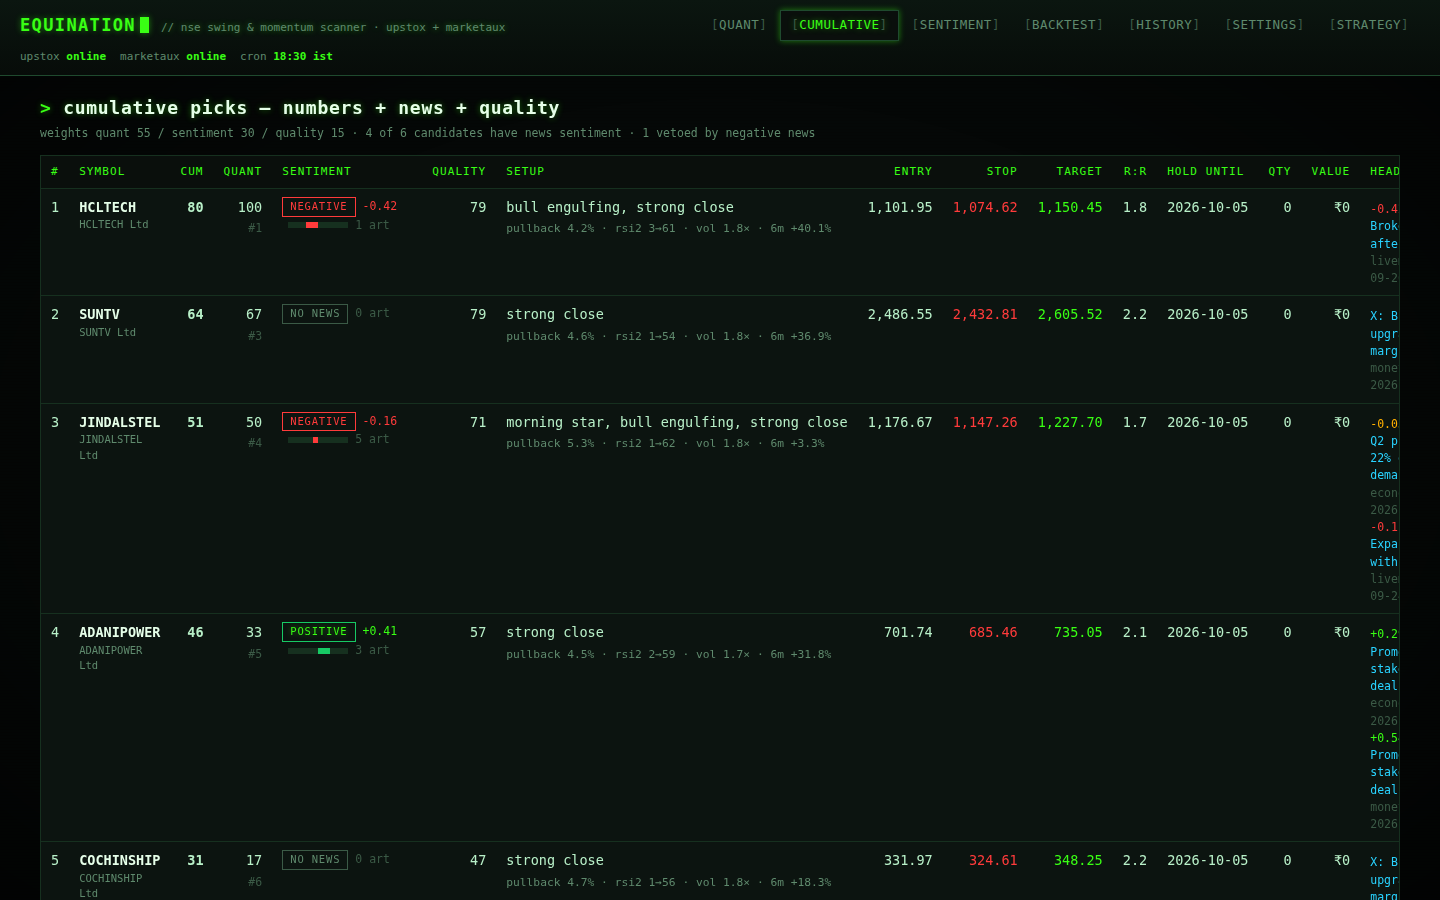
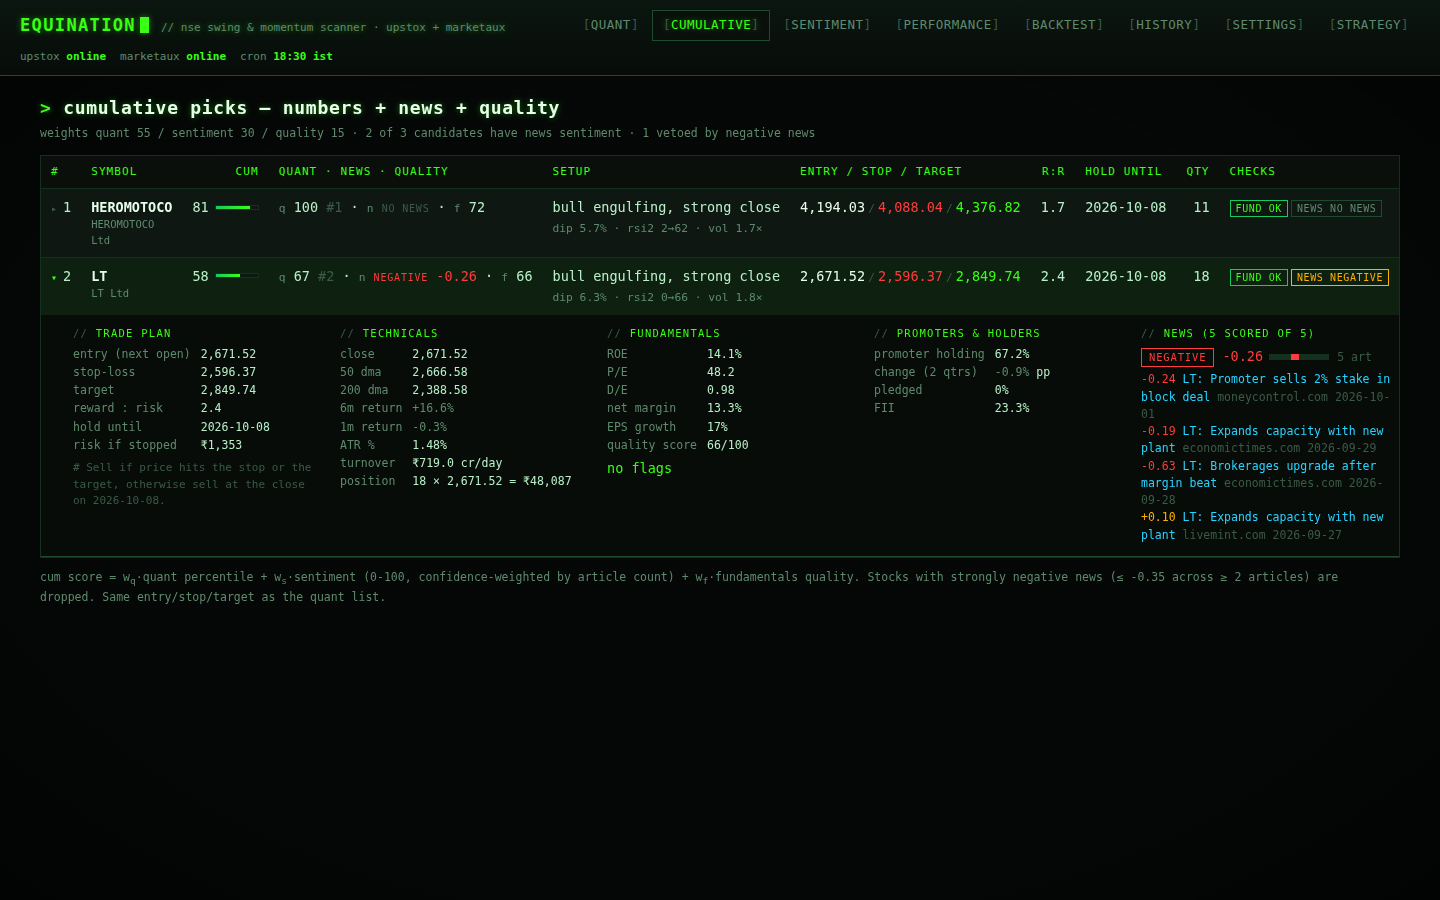
Polish UI: compact picks tables with expandable detail rows
Picks tables now show only the decision essentials (setup, score bar,
entry/stop/target, R:R, hold-until, qty, risk, check chips); clicking a
row expands a detail panel with the trade plan, technicals, fundamentals,
promoter holdings and headlines. Adds a summary strip (regime, picks,
mode, data date, live track record, next scan), zebra rows, softer CRT
effect and a mobile layout.

Claude-Session: https://claude.ai/code/session_01UB6m2yn1RT3XtXEe232fNs

diff --git a/static/app.js b/static/app.js
@@ -88,15 +88,68 @@
     if (mode === 'swing') return `<td class="num">${fmt(r.entry, 2)}</td><td class="num neg">${fmt(r.stop_loss, 2)}</td><td class="num pos">${fmt(r.target, 2)}</td><td class="num">${fmt(r.reward_risk)}</td><td>${r.hold_until || '-'}</td>`;
     return `<td class="num">${fmt(r.close, 2)}</td><td class="num neg">${fmt(r.stop_loss, 2)}</td><td class="num dim">50dma</td><td class="num dim">-</td><td class="dim">monthly</td>`;
   }
-  const PLAN_HEAD = '<th class="num">entry</th><th class="num">stop</th><th class="num">target</th><th class="num">r:r</th><th>hold until</th>';
-  const QUANT_HEAD = `<tr><th>#</th><th>symbol</th><th>setup</th><th class="num">score</th>${PLAN_HEAD}<th class="num">qty</th><th class="num">value</th><th class="num">risk</th><th>fundamentals</th><th>promoters</th><th>flags</th></tr>`;
-  const CUM_HEAD = `<tr><th>#</th><th>symbol</th><th class="num">cum</th><th class="num">quant</th><th>sentiment</th><th class="num">quality</th><th>setup</th>${PLAN_HEAD}<th class="num">qty</th><th class="num">value</th><th>headlines</th><th>flags</th></tr>`;
+  // Compact main row + expandable detail row. Columns are the decision essentials;
+  // everything else (fundamentals, promoters, news, exit rules) lives in the detail.
+  const QUANT_HEAD = '<tr><th>#</th><th>symbol</th><th>setup</th><th class="num">score</th><th class="plan">entry / stop / target</th><th class="num">r:r</th><th>hold until</th><th class="num">qty</th><th class="num">risk ₹</th><th>checks</th></tr>';
+  const CUM_HEAD = '<tr><th>#</th><th>symbol</th><th class="num">cum</th><th>quant · news · quality</th><th>setup</th><th class="plan">entry / stop / target</th><th class="num">r:r</th><th>hold until</th><th class="num">qty</th><th>checks</th></tr>';
 
+  const scoreBar = (v, max = 100) => `<span class="score">${fmt(v, 0)}<i><b style="width:${Math.max(0, Math.min(100, (v / max) * 100))}%"></b></i></span>`;
+  const setupShort = (r, mode) => mode === 'swing'
+    ? `${(r.patterns || []).map((p) => PATTERN_LABEL[p] || p).join(', ') || '-'}<br><small class="muted">dip ${fmt(r.pullback_pct)}% · rsi2 ${fmt(r.rsi2_prev, 0)}→${fmt(r.rsi2, 0)} · vol ${fmt(r.vol_ratio)}×</small>`
+    : `momentum<br><small class="muted">12-1m ${fmt(r.ret_12_1)}% · 6m ${fmt(r.ret_6)}% · 3m ${fmt(r.ret_3)}%</small>`;
+  const planShort = (r, mode) => mode === 'swing'
+    ? `<span class="plan"><span class="e">${fmt(r.entry, 2)}</span><small>/</small><span class="s">${fmt(r.stop_loss, 2)}</span><small>/</small><span class="t">${fmt(r.target, 2)}</span></span>`
+    : `<span class="plan"><span class="e">${fmt(r.close, 2)}</span><small>/</small><span class="s">${fmt(r.stop_loss, 2)}</span><small>/</small><span class="dim">50dma</span></span>`;
+  function checksShort(r) {
+    const hard = (r.quality_flags || []).length;
+    const sv = r.sentiment_verdict || 'no_news';
+    return `<span class="chip ${hard ? 'warn' : 'ok'}" title="${esc((r.quality_flags || []).join('; '))}">fund ${hard ? hard + ' flag' + (hard > 1 ? 's' : '') : 'ok'}</span><span class="chip ${sv === 'positive' ? 'ok' : sv === 'negative' ? 'warn' : ''}">news ${sv === 'no_news' ? 'none' : sv}</span>`;
+  }
+  function detailRow(r, mode, cols) {
+    const kv = (pairs) => `<div class="kv">${pairs.filter(([, v]) => v != null && v !== '').map(([k, v]) => `<span>${k}</span><span>${v}</span>`).join('')}</div>`;
+    const fund = kv([['ROE', r.roe != null ? fmt(r.roe) + '%' : null], ['ROCE', r.roce != null ? fmt(r.roce) + '%' : null], ['P/E', r.pe != null ? fmt(r.pe) : null], ['D/E', r.debt_equity != null ? fmt(r.debt_equity, 2) : null], ['net margin', r.net_margin != null ? fmt(r.net_margin) + '%' : null], ['EPS growth', r.eps_growth != null ? fmt(r.eps_growth, 0) + '%' : null], ['revenue growth', r.revenue_growth != null ? fmt(r.revenue_growth, 0) + '%' : null], ['quality score', r.quality_score != null ? fmt(r.quality_score, 0) + '/100' : null]]);
+    const prom = kv([['promoter holding', r.promoter_pct != null ? fmt(r.promoter_pct) + '%' : 'n/a'], ['change (2 qtrs)', r.promoter_change_pp != null ? pct(r.promoter_change_pp) + ' pp' : null], ['pledged', r.pledge_pct != null ? fmt(r.pledge_pct, 0) + '%' : null], ['FII', r.fii_pct != null ? fmt(r.fii_pct) + '%' : null], ['DII', r.dii_pct != null ? fmt(r.dii_pct) + '%' : null]]);
+    const tech = mode === 'swing'
+      ? kv([['close', fmt(r.close, 2)], ['50 dma', fmt(r.sma50, 2)], ['200 dma', fmt(r.sma200, 2)], ['6m return', pct(r.ret_6)], ['1m return', pct(r.ret_1)], ['ATR %', fmt(r.atr_pct, 2) + '%'], ['turnover', '₹' + fmt(r.turnover_cr) + ' cr/day'], ['position', `${r.quantity} × ${fmt(r.entry, 2)} = ${inr(r.position_value)}`]])
+      : kv([['close', fmt(r.close, 2)], ['50 dma', fmt(r.sma50, 2)], ['200 dma', fmt(r.sma200, 2)], ['vol (ann.)', fmt(r.vol) + '%'], ['vs 52w high', pct(r.from_high)], ['ATR', fmt(r.atr, 2)], ['turnover', '₹' + fmt(r.turnover_cr) + ' cr/day'], ['position', `${r.quantity} × ${fmt(r.close, 2)} = ${inr(r.position_value)}`]]);
+    const flags = (r.quality_flags || []).length ? (r.quality_flags || []).map((x) => `<span class="flag">${esc(x)}</span>`).join(' ') : '<span class="pos">no flags</span>';
+    return `<tr class="detail"><td colspan="${cols}"><div class="dgrid">
+      <div><h4>trade plan</h4>${kv([['entry (next open)', fmt(r.entry ?? r.close, 2)], ['stop-loss', fmt(r.stop_loss, 2)], ['target', r.target != null ? fmt(r.target, 2) : null], ['reward : risk', r.reward_risk != null ? fmt(r.reward_risk) : null], ['hold until', r.hold_until], ['risk if stopped', inr(r.risk_amount)]])}<p class="hint">${esc(r.exit_rules || '')}</p></div>
+      <div><h4>technicals</h4>${tech}</div>
+      <div><h4>fundamentals</h4>${fund}<div style="margin-top:4px">${flags}</div></div>
+      <div><h4>promoters &amp; holders</h4>${prom}</div>
+      <div><h4>news (${r.sentiment_n || 0} scored of ${r.sentiment_articles || 0})</h4>${sentBadge(r)}${headlinesCell(r, 4)}</div>
+    </div></td></tr>`;
+  }
   function quantRow(r, mode) {
-    return `<tr><td>${r.rank}</td><td class="sym">${esc(r.symbol)}<small>${esc(r.name || '')}</small></td><td>${setupCell(r, mode)}</td><td class="num">${fmt(r.score, mode === 'swing' ? 0 : 2)}</td>${planCells(r, mode)}<td class="num">${r.quantity}</td><td class="num">${inr(r.position_value)}</td><td class="num">${inr(r.risk_amount)}</td><td class="small">${fundCell(r)}</td><td class="small">${promoterCell(r)}</td><td class="small">${flagsCell(r)}</td></tr>`;
+    return `<tr class="main" data-key="${esc(r.instrument_key)}"><td>${r.rank}</td><td class="sym">${esc(r.symbol)}<small>${esc(r.name || '')}</small></td><td>${setupShort(r, mode)}</td><td class="num">${scoreBar(r.score, mode === 'swing' ? 100 : 4)}</td><td>${planShort(r, mode)}</td><td class="num">${r.reward_risk != null ? fmt(r.reward_risk) : '-'}</td><td>${r.hold_until || '<span class="dim">monthly</span>'}</td><td class="num">${r.quantity}</td><td class="num">${inr(r.risk_amount)}</td><td>${checksShort(r)}</td></tr>` + detailRow(r, mode, 10);
   }
   function cumRow(r, mode) {
-    return `<tr><td>${r.cum_rank}</td><td class="sym">${esc(r.symbol)}<small>${esc(r.name || '')}</small></td><td class="num"><b>${fmt(r.cum_score, 0)}</b></td><td class="num">${fmt(r.quant_points, 0)}<br><span class="dim small">#${r.quant_rank}</span></td><td class="small">${sentBadge(r)}</td><td class="num">${fmt(r.quality_score, 0)}</td><td>${setupCell(r, mode)}</td>${planCells(r, mode)}<td class="num">${r.quantity}</td><td class="num">${inr(r.position_value)}</td><td class="small">${headlinesCell(r, 1)}</td><td class="small">${flagsCell(r)}</td></tr>`;
+    const sv = r.sentiment_verdict || 'no_news';
+    return `<tr class="main" data-key="${esc(r.instrument_key)}"><td>${r.cum_rank}</td><td class="sym">${esc(r.symbol)}<small>${esc(r.name || '')}</small></td><td class="num">${scoreBar(r.cum_score)}</td><td><small class="muted">q</small> ${fmt(r.quant_points, 0)} <span class="dim">#${r.quant_rank}</span> · <small class="muted">n</small> <span class="verd ${sv}">${sv.replace('_', ' ')}</span>${r.sentiment_score != null ? ` <span class="${r.sentiment_score > 0 ? 'pos' : 'neg'}">${r.sentiment_score >= 0 ? '+' : ''}${fmt(r.sentiment_score, 2)}</span>` : ''} · <small class="muted">f</small> ${fmt(r.quality_score, 0)}</td><td>${setupShort(r, mode)}</td><td>${planShort(r, mode)}</td><td class="num">${r.reward_risk != null ? fmt(r.reward_risk) : '-'}</td><td>${r.hold_until || '<span class="dim">monthly</span>'}</td><td class="num">${r.quantity}</td><td>${checksShort(r)}</td></tr>` + detailRow(r, mode, 10);
+  }
+  document.addEventListener('click', (e) => {
+    const tr = e.target.closest('tr.main'); if (!tr || e.target.closest('a')) return;
+    tr.classList.toggle('open'); tr.nextElementSibling?.classList.toggle('open');
+  });
+
+  async function renderSummary(scan) {
+    const st = scan.stats || {}, rg = scan.regime || {};
+    const mode = st.mode || scan.params?.mode || 'positional';
+    const perf = await api('/api/performance').catch(() => null);
+    const ps = perf?.stats || {};
+    const settings = await api('/api/settings').catch(() => ({}));
+    const cells = [
+      ['regime', `<span class="${rg.state || ''}">${(rg.state || '-').replace('_', ' ')}</span>`, rg.nifty_close ? `nifty ${fmt(rg.nifty_close, 0)} · alloc ${Math.round((rg.allocation || 0) * 100)}%` : ''],
+      ['picks', `${st.quant_picks ?? 0} <span class="dim">/</span> ${st.cumulative_picks ?? 0}`, 'quant / cumulative'],
+      ['mode', mode === 'swing' ? `${scan.params?.hold_days || 4}-day swing` : 'positional', `${st.universe || 0} scanned · ${st.gated_out ?? 0} gated out`],
+      ['data as of', st.data_as_of || '-', `scan ${new Date(scan.run_at).toLocaleTimeString('en-IN', { hour12: false, timeZone: 'Asia/Kolkata' })} ist`],
+      ['track record', ps.trades ? `<span class="${ps.avg_ret_pct >= 0 ? 'pos' : 'neg'}">${ps.avg_ret_pct >= 0 ? '+' : ''}${fmt(ps.avg_ret_pct, 2)}%</span>` : '<span class="dim">-</span>', ps.trades ? `${ps.trades} closed · win ${ps.win_rate_pct}% · pf ${ps.profit_factor ?? '-'}` : 'no closed picks yet'],
+      ['next scan', settings.schedule?.enabled && settings.schedule.next_run ? new Date(settings.schedule.next_run).toLocaleString('en-IN', { timeZone: 'Asia/Kolkata', hour12: false, day: '2-digit', month: 'short', hour: '2-digit', minute: '2-digit' }) : 'off', settings.schedule?.enabled ? 'cron, ist' : 'enable in settings'],
+    ];
+    const el = $('#summary');
+    el.innerHTML = cells.map(([k, v, b]) => `<div class="s"><div class="k">${k}</div><div class="v">${v}</div><div class="b">${b}</div></div>`).join('');
+    el.classList.remove('hidden');
   }
   function sentRow(r, i) {
     return `<tr><td>${i + 1}</td><td class="sym">${esc(r.symbol)}<small>${esc(r.name || '')}</small></td><td>${sentBadge(r)}</td><td class="num">${r.sentiment_score == null ? '-' : fmt(r.sentiment_score, 2)}</td><td class="num">${r.sentiment_n || 0}/${r.sentiment_articles || 0}</td><td class="num"><span class="pos">${r.sentiment_pos || 0}</span> / <span class="neg">${r.sentiment_neg || 0}</span></td><td class="small">${headlinesCell(r, 4)}</td></tr>`;
@@ -114,30 +167,31 @@
     $('#scan-meta').textContent = `last scan ${ist(scan.run_at)} · ${scan.status} · ${mode} mode · ${scan.message || ''}` + (st.data_as_of ? ` · data as of ${st.data_as_of}` : '');
     const rg = scan.regime || {};
     const rEl = $('#regime');
-    if (rg.state) {
+    if (rg.state && rg.state !== 'RISK_ON') {
       rEl.className = 'regime ' + rg.state;
-      rEl.innerHTML = `<span class="state">${rg.state.replace('_', ' ')}</span> ${esc(rg.note)} <span class="muted small">nifty ${fmt(rg.nifty_close, 0)} · 50dma ${fmt(rg.sma50, 0)} · 200dma ${fmt(rg.sma200, 0)} · allocation ${Math.round(rg.allocation * 100)}%</span>`;
+      rEl.innerHTML = `<span class="state">${rg.state.replace('_', ' ')}</span> ${esc(rg.note)} <span class="muted small">nifty ${fmt(rg.nifty_close, 0)} · 50dma ${fmt(rg.sma50, 0)} · 200dma ${fmt(rg.sma200, 0)}</span>`;
       rEl.classList.remove('hidden');
     } else rEl.classList.add('hidden');
+    renderSummary(scan);
 
     const all = scan.results || [];
     const quant = all.filter((r) => r.rank > 0).sort((a, b) => a.rank - b.rank);
     $('#picks thead').innerHTML = QUANT_HEAD;
     tb.innerHTML = quant.map((r) => quantRow(r, mode)).join('') ||
-      `<tr><td colspan="16" class="muted">${mode === 'swing' ? 'no valid setups today — normal; pullback-reversal setups appear a handful of days a month. nothing to buy.' : 'no eligible stocks in this scan.'}</td></tr>`;
+      `<tr><td colspan="10" class="muted">${mode === 'swing' ? 'no valid setups today — normal; pullback-reversal setups appear a handful of days a month. nothing to buy.' : 'no eligible stocks in this scan.'}</td></tr>`;
     const reasons = Object.entries(st.excluded_reasons || {}).map(([k, v]) => `${k}: ${v}`).join(' · ');
     const gate = Object.entries(st.gate_reasons || {}).map(([k, v]) => `${k}: ${v}`).join(' · ');
     $('#stats').innerHTML = st.universe ? `universe ${st.universe} · ${mode === 'swing' ? `setups ${st.setups}` : `eligible ${st.eligible}`} · verified ${st.verified ?? 0} · gated out ${st.gated_out ?? 0}${gate ? ` (${esc(gate)})` : ''} · technical exclusions: ${esc(reasons)}` +
       (st.fetch_errors ? ` · ${st.fetch_errors} data errors` : '') +
       (st.missing_symbols?.length ? ` · not in instrument master: ${st.missing_symbols.join(', ')}` : '') : '';
-    $('#mode-note').textContent = mode === 'swing'
-      ? 'swing mode: buy at the next open, place the stop immediately, sell at the target or the stop, otherwise at the close of the "hold until" day. quantity uses your capital, risk-per-trade and the regime allocation. educational tool, not investment advice.'
-      : 'positional mode: review daily, act only when a stop is hit or at the monthly rebalance. quantity uses your capital, risk-per-trade and the regime allocation. educational tool, not investment advice.';
+    $('#mode-note').textContent = (mode === 'swing'
+      ? 'swing mode: buy at the next open, place the stop immediately, sell at the target or the stop, otherwise at the close of the "hold until" day.'
+      : 'positional mode: review daily, act only when a stop is hit or at the monthly rebalance.') + ' click a row for fundamentals, promoters, news and the exit rules. educational tool, not investment advice.';
 
     // cumulative
     const cum = all.filter((r) => r.cum_rank > 0).sort((a, b) => a.cum_rank - b.cum_rank);
     $('#cum-picks thead').innerHTML = CUM_HEAD;
-    $('#cum-picks tbody').innerHTML = cum.map((r) => cumRow(r, mode)).join('') || '<tr><td colspan="17" class="muted">nothing passed the cumulative filter in this scan.</td></tr>';
+    $('#cum-picks tbody').innerHTML = cum.map((r) => cumRow(r, mode)).join('') || '<tr><td colspan="10" class="muted">nothing passed the cumulative filter in this scan.</td></tr>';
     $('#cum-warn').classList.toggle('hidden', !!st.sentiment_enabled);
     const w = st.weights || {};
     $('#cum-meta').textContent = `weights quant ${w.quant ?? 55} / sentiment ${w.sentiment ?? 30} / quality ${w.quality ?? 15} · ${st.sentiment_scored ?? 0} of ${all.length} candidates have news sentiment · ${st.sentiment_excluded ?? 0} vetoed by negative news` + (st.sentiment_error ? ` · marketaux: ${st.sentiment_error}` : '');

diff --git a/static/styles.css b/static/styles.css
@@ -13,15 +13,14 @@ body {
   font: 13.5px/1.5 "JetBrains Mono", "SF Mono", Menlo, Consolas, monospace;
   position: relative; min-height: 100vh;
 }
-/* CRT scanlines + vignette */
+/* CRT scanlines + vignette (kept subtle so tables stay readable) */
 body::before {
   content: ""; position: fixed; inset: 0; pointer-events: none; z-index: 0;
-  background: repeating-linear-gradient(0deg, rgba(0,0,0,0) 0 2px, rgba(0,0,0,.18) 2px 3px);
-  mix-blend-mode: multiply;
+  background: repeating-linear-gradient(0deg, rgba(0,0,0,0) 0 3px, rgba(0,0,0,.09) 3px 4px);
 }
 body::after {
   content: ""; position: fixed; inset: 0; pointer-events: none; z-index: 0;
-  background: radial-gradient(ellipse at center, rgba(0,0,0,0) 55%, rgba(0,0,0,.55) 100%);
+  background: radial-gradient(ellipse at center, rgba(0,0,0,0) 65%, rgba(0,0,0,.45) 100%);
 }
 a { color: var(--cyan); text-decoration: none; }
 a:hover { text-decoration: underline; }
@@ -135,6 +134,53 @@ svg.chart { width: 100%; height: 280px; background: #020403; border: 1px solid v
 .headlines li { font-size: 11.5px; color: var(--muted); white-space: normal; max-width: 520px; min-width: 260px; }
 .headlines li b { color: var(--text); font-weight: 400; }
 .kbd { color: var(--dim); font-size: 11px; }
+
+/* ------------------------------------------------------------- summary */
+.summary { display: grid; grid-template-columns: repeat(auto-fit, minmax(150px, 1fr)); gap: 8px; margin: 0 0 12px; }
+.summary .s { background: var(--panel); border: 1px solid var(--line); padding: 8px 12px; }
+.summary .s .k { color: var(--muted); font-size: 10px; text-transform: uppercase; letter-spacing: .12em; }
+.summary .s .v { font-size: 16px; font-weight: 700; color: var(--bright); }
+.summary .s .v.RISK_ON { color: var(--green); text-shadow: var(--glow); }
+.summary .s .v.CAUTION { color: var(--amber); } .summary .s .v.RISK_OFF { color: var(--red); }
+.summary .s .b { color: var(--muted); font-size: 10.5px; }
+
+/* ----------------------------------------------------- expandable rows */
+tbody tr.main { cursor: pointer; }
+tbody tr.main:nth-child(4n+1) td { background: rgba(255,255,255,.015); }
+tbody tr.main.open td { background: rgba(57,255,20,.06); border-bottom-color: transparent; }
+tbody tr.main td:first-child::before { content: "▸"; color: var(--dim); margin-right: 6px; font-size: 10px; }
+tbody tr.main.open td:first-child::before { content: "▾"; color: var(--green); }
+tr.detail { display: none; }
+tr.detail.open { display: table-row; }
+tr.detail td { background: #070c09; border-bottom: 1px solid var(--line2); padding: 10px 14px 12px 32px; white-space: normal; }
+.dgrid { display: grid; grid-template-columns: repeat(auto-fit, minmax(240px, 1fr)); gap: 10px 20px; }
+.dgrid h4 { margin: 0 0 4px; font-size: 10.5px; color: var(--green); text-transform: uppercase; letter-spacing: .12em; font-weight: 500; }
+.dgrid h4::before { content: "// "; color: var(--dim); }
+.kv { display: grid; grid-template-columns: auto 1fr; gap: 1px 10px; font-size: 11.5px; }
+.kv span:nth-child(odd) { color: var(--muted); }
+.kv span:nth-child(even) { color: var(--text); font-variant-numeric: tabular-nums; }
+.score { display: inline-flex; align-items: center; gap: 6px; }
+.score i { display: inline-block; width: 44px; height: 5px; background: #0b1a10; border: 1px solid var(--line); position: relative; }
+.score i b { position: absolute; left: 0; top: 0; height: 100%; background: linear-gradient(90deg, var(--green2), var(--green)); }
+.plan { font-variant-numeric: tabular-nums; }
+.plan .e { color: var(--bright); } .plan .s { color: var(--red); } .plan .t { color: var(--green); }
+.plan small { color: var(--dim); margin: 0 3px; }
+.verd { font-size: 10px; letter-spacing: .08em; text-transform: uppercase; }
+.verd.positive { color: var(--green); } .verd.negative { color: var(--red); } .verd.neutral { color: var(--amber); } .verd.no_news { color: var(--dim); }
+.chip { display: inline-block; font-size: 10px; letter-spacing: .06em; text-transform: uppercase; padding: 0 5px; border: 1px solid var(--line2); color: var(--muted); margin-right: 3px; }
+.chip.ok { color: var(--green); border-color: var(--green2); }
+.chip.warn { color: var(--amber); border-color: var(--amber); }
+.hint { color: var(--dim); font-size: 11px; margin: 6px 0 0; }
+.hint::before { content: "# "; }
+
+@media (max-width: 760px) {
+  main { padding: 12px 10px 30px; }
+  .top { padding: 8px 12px; }
+  .brand .sub { display: none; }
+  nav button { padding: 4px 6px; font-size: 11.5px; }
+  th, td { padding: 6px 7px; font-size: 12px; }
+  tr.detail td { padding-left: 12px; }
+}
 .stat-line { color: var(--muted); font-size: 11.5px; margin: 8px 0; white-space: normal; }
 .stat-line::before { content: "$ "; color: var(--green); }
 .weights { display: flex; gap: 10px; }

diff --git a/static/index.html b/static/index.html
@@ -4,7 +4,7 @@
 <meta charset="utf-8">
 <meta name="viewport" content="width=device-width, initial-scale=1">
 <title>Equination</title>
-<link rel="stylesheet" href="/static/styles.css?v=6">
+<link rel="stylesheet" href="/static/styles.css?v=7">
 </head>
 <body>
 <header class="top">
@@ -36,6 +36,7 @@
     </div>
     <div id="progress" class="progress hidden"><div class="pbar"><div id="progress-fill"></div></div></div>
     <div id="term" class="term hidden"></div>
+    <div id="summary" class="summary hidden"></div>
     <div id="regime" class="regime hidden"></div>
     <div id="needs-login" class="callout warn hidden">
       Upstox access token missing or expired (tokens die at 03:30 IST daily).
@@ -282,6 +283,6 @@
     </div>
   </section>
 </main>
-<script src="/static/app.js?v=6"></script>
+<script src="/static/app.js?v=7"></script>
 </body>
 </html>
